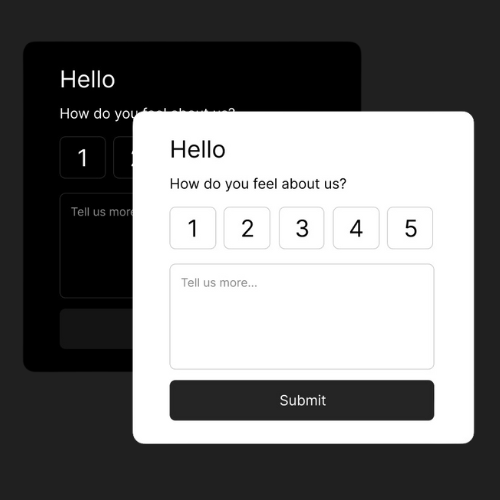
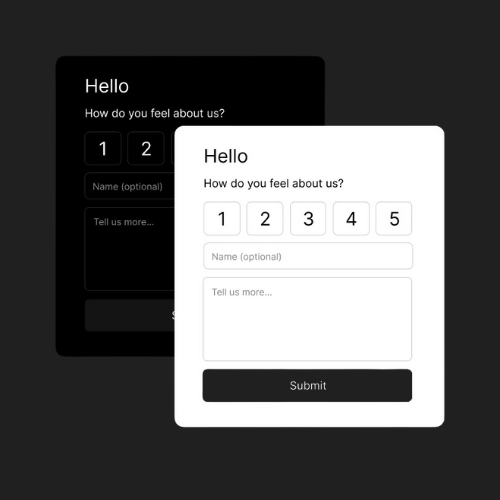
added name, and created at to the feedbacks, and made an api for every project so cusomers can have access to the feedback data

diff --git a/components/dashborad/FeedbackList.tsx b/components/dashborad/FeedbackList.tsx
@@ -1,38 +1,42 @@
-'use client'
+"use client";
 
-import React, { useState } from "react"
-import { Button } from "@/components/ui/button"
+import React, { useState } from "react";
+import { Button } from "@/components/ui/button";
 
 interface Feedback {
   id: number;
-  message: string | null; 
+  message: string | null;
   rating: number | null;
-};
+  name: string | null;
+  createdAt: string | null;
+}
 
-type FilterType = 'all' | 'bad' | 'okay' | 'good';
+type FilterType = "all" | "bad" | "okay" | "good";
 
 interface FilterButton {
-  type: FilterType
-  label: string
-  className: string
-};
+  type: FilterType;
+  label: string;
+  className: string;
+}
 
 const filterButtons: FilterButton[] = [
-  { type: 'all', label: 'All', className: 'bg-blue-500 hover:bg-blue-600' },
-  { type: 'good', label: 'Good', className: 'bg-[#303030] hover:bg-[#303030]' },
-  { type: 'okay', label: 'Okay', className: 'bg-[#303030] hover:bg-[#303030]' },
-  { type: 'bad', label: 'Bad', className: 'bg-[#303030] hover:bg-[#303030]' },
+  { type: "all", label: "All", className: "bg-blue-500 hover:bg-blue-600" },
+  { type: "good", label: "Good", className: "bg-[#303030] hover:bg-[#303030]" },
+  { type: "okay", label: "Okay", className: "bg-[#303030] hover:bg-[#303030]" },
+  { type: "bad", label: "Bad", className: "bg-[#303030] hover:bg-[#303030]" },
 ];
 
 export default function FeedbackList({ feedbacks }: { feedbacks: Feedback[] }) {
-  const [filter, setFilter] = useState<FilterType>('all')
+  const [filter, setFilter] = useState<FilterType>("all");
 
   const filteredFeedbacks = feedbacks.filter((feedback) => {
-    if (filter === 'all') return true
-    if (filter === 'bad' && (feedback.rating === 1 || feedback.rating === 2)) return true
-    if (filter === 'okay' && feedback.rating === 3) return true
-    if (filter === 'good' && (feedback.rating === 4 || feedback.rating === 5)) return true
-    return false
+    if (filter === "all") return true;
+    if (filter === "bad" && (feedback.rating === 1 || feedback.rating === 2))
+      return true;
+    if (filter === "okay" && feedback.rating === 3) return true;
+    if (filter === "good" && (feedback.rating === 4 || feedback.rating === 5))
+      return true;
+    return false;
   });
 
   return (
@@ -46,7 +50,9 @@ export default function FeedbackList({ feedbacks }: { feedbacks: Feedback[] }) {
         {filterButtons.map((button) => (
           <Button
             key={button.type}
-            className={`${button.className} rounded-lg ${filter === button.type && "border border-[#404040]"} focus:ring-0 focus:ring-offset-0 focus:outline-none focus:border-[#404040]`}
+            className={`${button.className} rounded-lg ${
+              filter === button.type && "border border-[#404040]"
+            } focus:ring-0 focus:ring-offset-0 focus:outline-none focus:border-[#404040]`}
             onClick={() => setFilter(button.type)}
           >
             {button.label}
@@ -65,26 +71,36 @@ export default function FeedbackList({ feedbacks }: { feedbacks: Feedback[] }) {
           {filteredFeedbacks.map((feedback: Feedback) => (
             <li
               key={feedback.id}
-              className="flex gap-2 bg-[#303030] rounded-[10px] p-5 justify-between flex-wrap"
+              className="flex gap-2 bg-[#303030] rounded-[10px] p-5 flex-col"
             >
-              <h2 className="flex flex-col gap-2">{feedback.message}</h2>
-              <span
-                className={
-                  feedback.rating === 1 || feedback.rating === 2
-                    ? "bg-red-800 text-black py-1 px-3 rounded-full text-xs"
-                    : feedback.rating === 3
+              <div className="flex justify-between items-center w-full flex-wrap">
+                <h2 className="flex flex-col gap-2">{feedback.message}</h2>
+                <span
+                  className={
+                    feedback.rating === 1 || feedback.rating === 2
+                      ? "bg-red-800 text-black py-1 px-3 rounded-full text-xs"
+                      : feedback.rating === 3
                       ? "bg-yellow-400 text-black py-1 px-3 rounded-full text-xs"
                       : feedback.rating === 4 || feedback.rating === 5
-                        ? "bg-green-500 text-black py-1 px-3 rounded-full text-xs"
-                        : ""
-                }
-              >
-                Rating: {feedback.rating}
-              </span>
+                      ? "bg-green-500 text-black py-1 px-3 rounded-full text-xs"
+                      : ""
+                  }
+                >
+                  Rating: {feedback.rating}
+                </span>
+              </div>
+              <div className="flex items-center gap-3 ">
+                {feedback.name &&  <p className="text-xs text-[#606060]"> by: {feedback.name}</p>}
+                <p className="text-xs text-[#606060]">
+                  {feedback.createdAt
+                    ? new Date(feedback.createdAt).toLocaleDateString()
+                    : "No date available"}
+                </p>
+              </div>
             </li>
           ))}
         </ul>
       </div>
     </div>
-  )
+  );
 }

diff --git a/app/api/feedback/[projectId]/route.ts b/app/api/feedback/[projectId]/route.ts
@@ -1,0 +1,25 @@
+import { NextResponse } from 'next/server';
+
+import { eq } from 'drizzle-orm';
+import { db } from '@/db';
+import { feedbacks } from '@/db/schema';
+export async function GET(req: Request, { params }: { params: { projectId: string } }) {
+  const { projectId } = params;
+  const projectIdInt = parseInt(projectId, 10);
+
+  if (isNaN(projectIdInt)) {
+    return NextResponse.json({ error: 'Invalid projectId' }, { status: 400 });
+  }
+
+  try {
+    const feedbackList = await db
+      .select()
+      .from(feedbacks)
+      .where(eq(feedbacks.projectId, projectIdInt));
+
+    return NextResponse.json({ feedbacks: feedbackList }, { status: 200 });
+  } catch (error) {
+    console.error('Error fetching feedbacks:', error);
+    return NextResponse.json({ error: 'Failed to fetch feedbacks' }, { status: 500 });
+  }
+}

diff --git a/components/layout/Navbar.tsx b/components/layout/Navbar.tsx
@@ -27,7 +27,7 @@ export default function PageHeader() {
           </SignedOut>
           <SignedIn>
             <Link href={"/payments"} className="cursor-pointer">
-              <button className="p-1 bg-[#303030] rounded-full border-[1px] border-slate-600">
+              <button className="p-1 bg-[#303030] rounded-full border-[1px] border-[#606060]">
                 <CreditCard className="size-5 text-white" />
               </button>
             </Link>

diff --git a/app/layout.tsx b/app/layout.tsx
@@ -24,7 +24,7 @@ export default function RootLayout({
         <body className={inter.className}>
           {children}
           <my-widget project="41"></my-widget>
-          <script src="https://quickfeedwidgetdark.netlify.app/widget.js"></script>
+          <script src="https://quickfeedwidgetlight.netlify.app/widget.js"></script>
         </body>
       </html>
     </ClerkProvider>

diff --git a/db/schema.ts b/db/schema.ts
@@ -27,6 +27,8 @@ export const feedbacks = pgTable("feedbacks", {
   projectId: integer("project_id").notNull(), // Add .notNull() if required
   message: text("message"),
   rating: integer("rating"),
+  name: text("name"),
+  createdAt: timestamp("created_at").defaultNow().notNull(),
 });
 
 export const feedbacksRelations = relations(feedbacks, ({ one }) => ({

diff --git a/drizzle.config.ts b/drizzle.config.ts
@@ -12,4 +12,5 @@ export default defineConfig({
   dbCredentials: {
     url: process.env.DATABASE_URL || "postgress://localhost:5432/drizzle",
   },
+
 });
